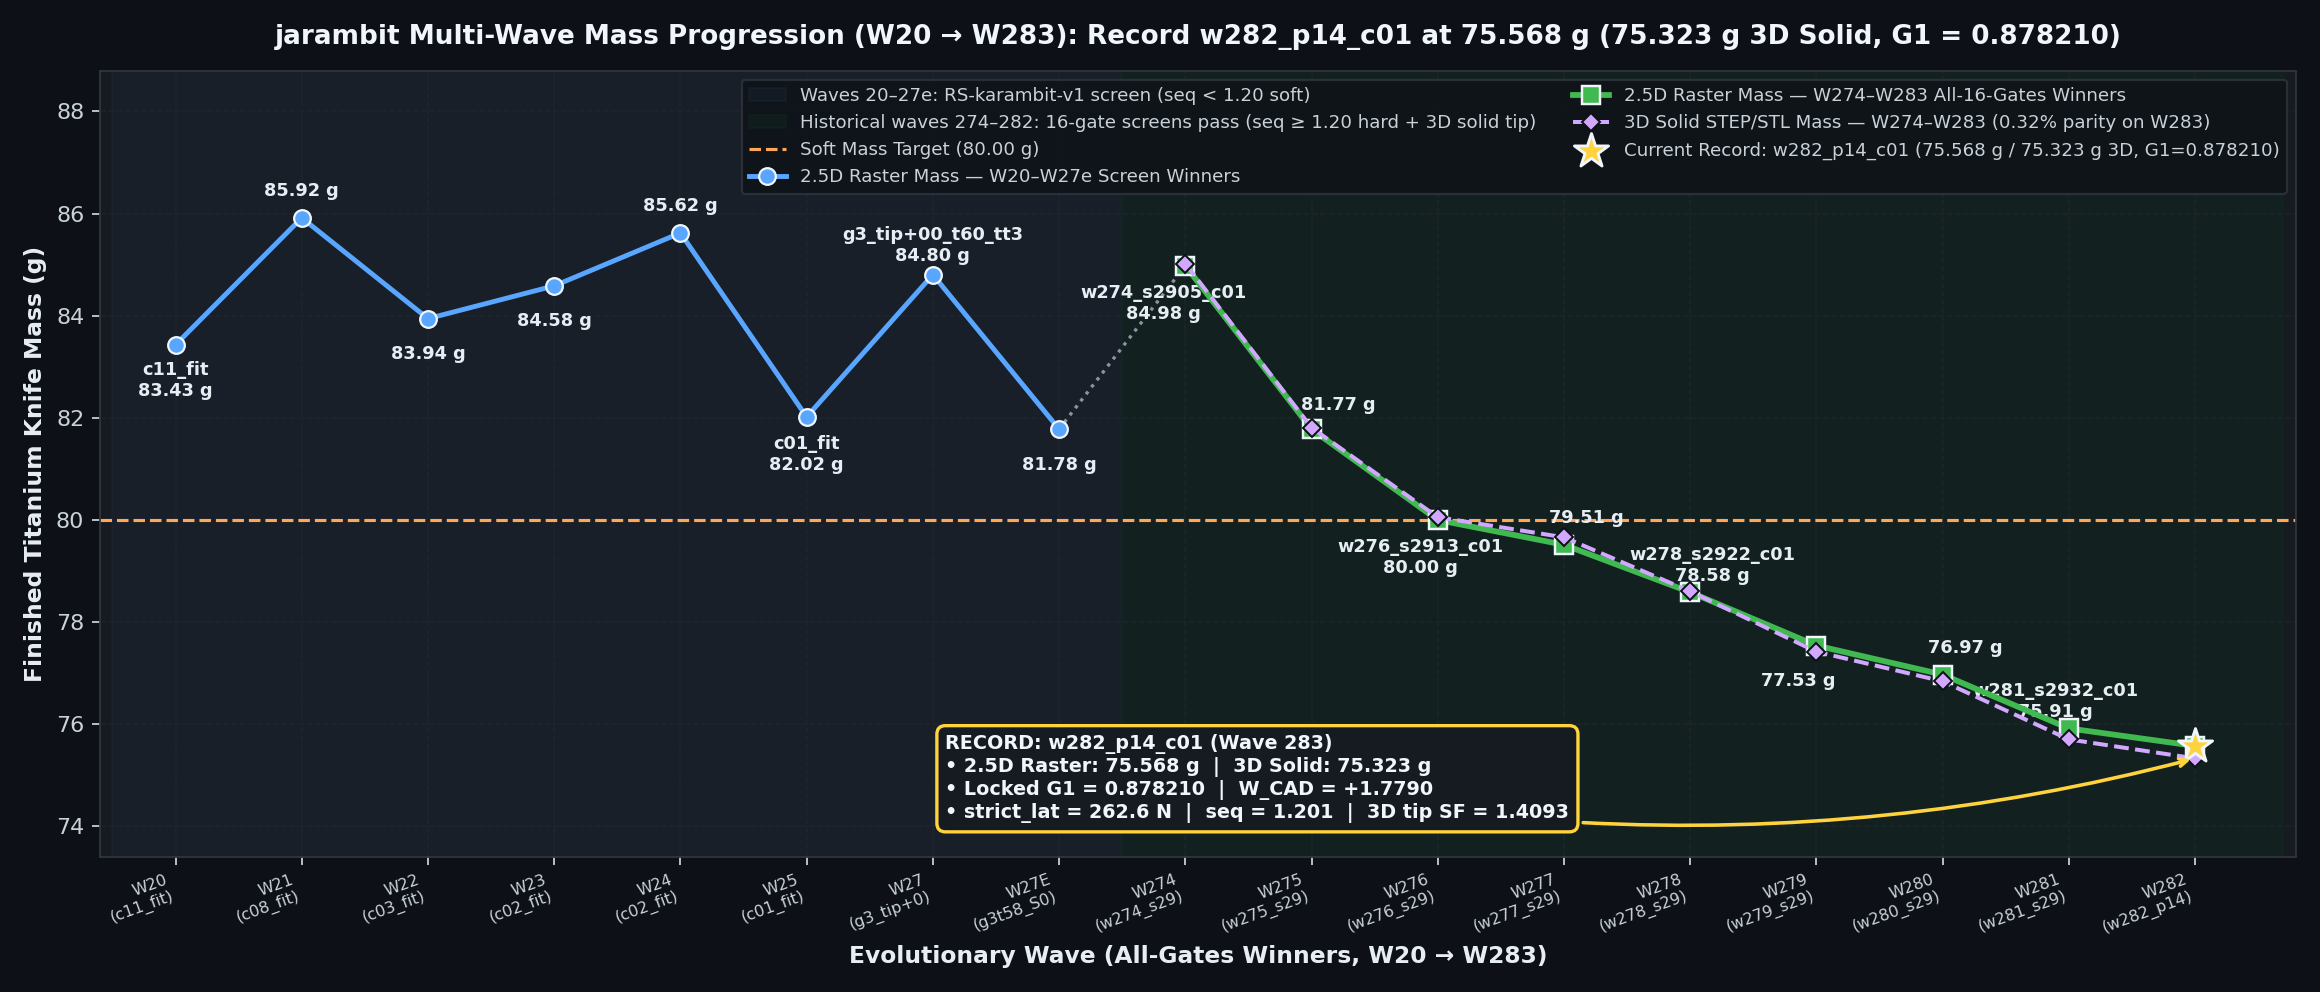
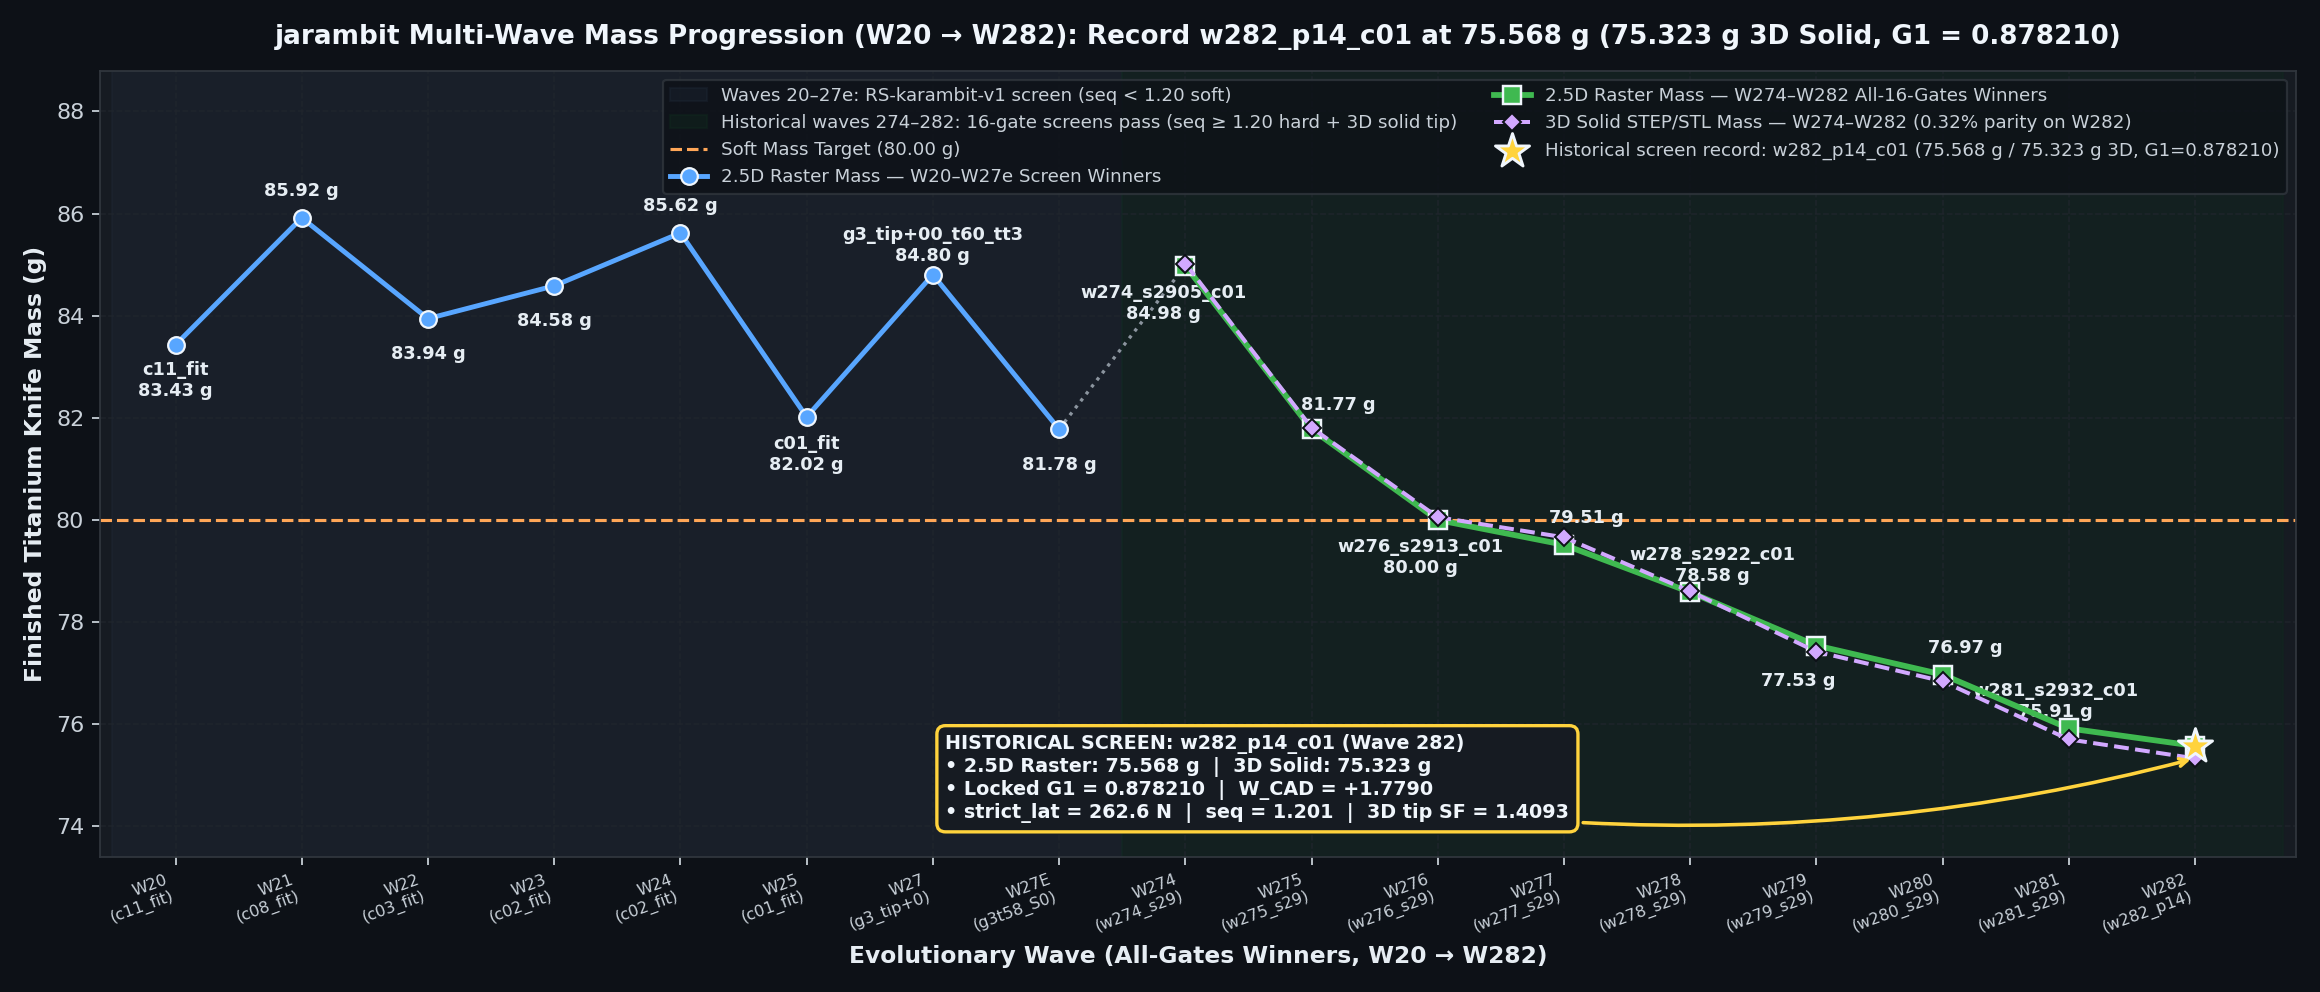
docs: label mass progression as a historical screening result

Changed region(s): [[0.2793, 0.0625, 0.9621, 0.1875], [0.4034, 0.7188, 0.6207, 0.7812]]

diff --git a/ops/render/whitepaper_hero_figs.py b/ops/render/whitepaper_hero_figs.py
@@ -156,16 +156,16 @@ def _plot_mass_vs_wave(ax, v1_winners, wcad_winners, compact=False):
     # Plot W_CAD_v2 16-gate winners (2.5D raster + 3D solid)
     ax.plot(xs_wcad, ys_wcad, '-s', color='#3fb950', linewidth=2.6, markersize=8.0,
             markerfacecolor='#3fb950', markeredgecolor='#f0f6fc', markeredgewidth=1.1,
-            label='2.5D Raster Mass — W274–W283 All-16-Gates Winners', zorder=5)
+            label='2.5D Raster Mass — W274–W282 All-16-Gates Winners', zorder=5)
     ax.plot(xs_wcad, ys_wcad_3d, '--D', color='#d2a8ff', linewidth=1.8, markersize=6.0,
             markerfacecolor='#d2a8ff', markeredgecolor='#0d1117', markeredgewidth=0.9,
-            label=f"3D Solid STEP/STL Mass — W274–W283 ({100.0 * abs(wcad_winners[-1]['mass_g'] - wcad_winners[-1]['mass_3d_g']) / wcad_winners[-1]['mass_g']:.2f}% parity on W283)", zorder=6)
+            label=f"3D Solid STEP/STL Mass — W274–W282 ({100.0 * abs(wcad_winners[-1]['mass_g'] - wcad_winners[-1]['mass_3d_g']) / wcad_winners[-1]['mass_g']:.2f}% parity on W282)", zorder=6)
 
     # Highlight current record w283_p14_c01
     rec = wcad_winners[-1]
     rx = xs[-1]
     ax.scatter([rx], [rec['mass_g']], s=260, marker='*', color='#ffd33d', edgecolors='#f0f6fc', linewidths=1.3, zorder=8,
-               label=f"Current Record: {rec['label']} ({rec['mass_g']:.3f} g / {rec['mass_3d_g']:.3f} g 3D, G1={rec['g1']:.6f})")
+               label=f"Historical screen record: {rec['label']} ({rec['mass_g']:.3f} g / {rec['mass_3d_g']:.3f} g 3D, G1={rec['g1']:.6f})")
 
     # Annotate points cleanly above/below markers without touching
     pos_map = {
@@ -200,7 +200,7 @@ def _plot_mass_vs_wave(ax, v1_winners, wcad_winners, compact=False):
 
     # Prominent callout box for record w283_p14_c01 kept strictly inside axis bounds
     callout = (
-        f"RECORD: {rec['label']} (Wave 283)\n"
+        f"HISTORICAL SCREEN: {rec['label']} (Wave 282)\n"
         f"• 2.5D Raster: {rec['mass_g']:.3f} g  |  3D Solid: {rec['mass_3d_g']:.3f} g\n"
         f"• Locked G1 = {rec['g1']:.6f}  |  W_CAD = +{rec['w_cad']:.4f}\n"
         f"• strict_lat = {rec['strict_lat_n']:.1f} N  |  seq = {rec['seq_ratio']:.3f}  |  3D tip SF = {rec['solid_tip_sf']:.4f}"
@@ -220,7 +220,7 @@ def _plot_mass_vs_wave(ax, v1_winners, wcad_winners, compact=False):
     ax.set_xticks(xs)
     ax.set_xticklabels([f"{p['wave'].upper()}\n({p['label'][:8]})" for p in all_pts], fontsize=7.2, rotation=20, ha='right')
     ax.set_ylabel('Finished Titanium Knife Mass (g)', fontsize=10.5, fontweight='bold')
-    ax.set_xlabel('Evolutionary Wave (All-Gates Winners, W20 → W283)', fontsize=10.5, fontweight='bold')
+    ax.set_xlabel('Evolutionary Wave (All-Gates Winners, W20 → W282)', fontsize=10.5, fontweight='bold')
     ax.set_ylim(73.4, 88.8)
     ax.set_xlim(-0.6, len(all_pts) - 0.2)
     ax.grid(True, color='#21262d', linestyle='--', linewidth=0.7, alpha=0.8)
@@ -245,7 +245,7 @@ def make_readme_hero_fig():
     _plot_mass_vs_wave(ax, v1_winners, wcad_winners, compact=False)
     rec = wcad_winners[-1]
     ax.set_title(
-        f"jarambit Multi-Wave Mass Progression (W20 → W283): Record {rec['label']} at {rec['mass_g']:.3f} g ({rec['mass_3d_g']:.3f} g 3D Solid, G1 = {rec['g1']:.6f})",
+        f"jarambit Multi-Wave Mass Progression (W20 → W282): Record {rec['label']} at {rec['mass_g']:.3f} g ({rec['mass_3d_g']:.3f} g 3D Solid, G1 = {rec['g1']:.6f})",
         fontsize=11.8, fontweight='bold', pad=12,
     )
     leg = ax.legend(loc='upper right', facecolor='#0d1117', edgecolor='#30363d', fontsize=8.2, ncol=2)
@@ -290,7 +290,7 @@ def make_why_this_matters_fig():
 
     # Panel (a): Mass vs Wave curve
     _plot_mass_vs_wave(ax0, v1_winners, wcad_winners, compact=True)
-    ax0.set_title('(a) Evolutionary Mass Reduction Across All-Gates Winners (W20 → W283)', fontsize=11.0, fontweight='bold', pad=10)
+    ax0.set_title('(a) Evolutionary Mass Reduction Across All-Gates Winners (W20 → W282)', fontsize=11.0, fontweight='bold', pad=10)
     leg0 = ax0.legend(loc='upper right', facecolor='#0d1117', edgecolor='#30363d', fontsize=7.4)
     for txt in leg0.get_texts():
         txt.set_color('#c9d1d9')
